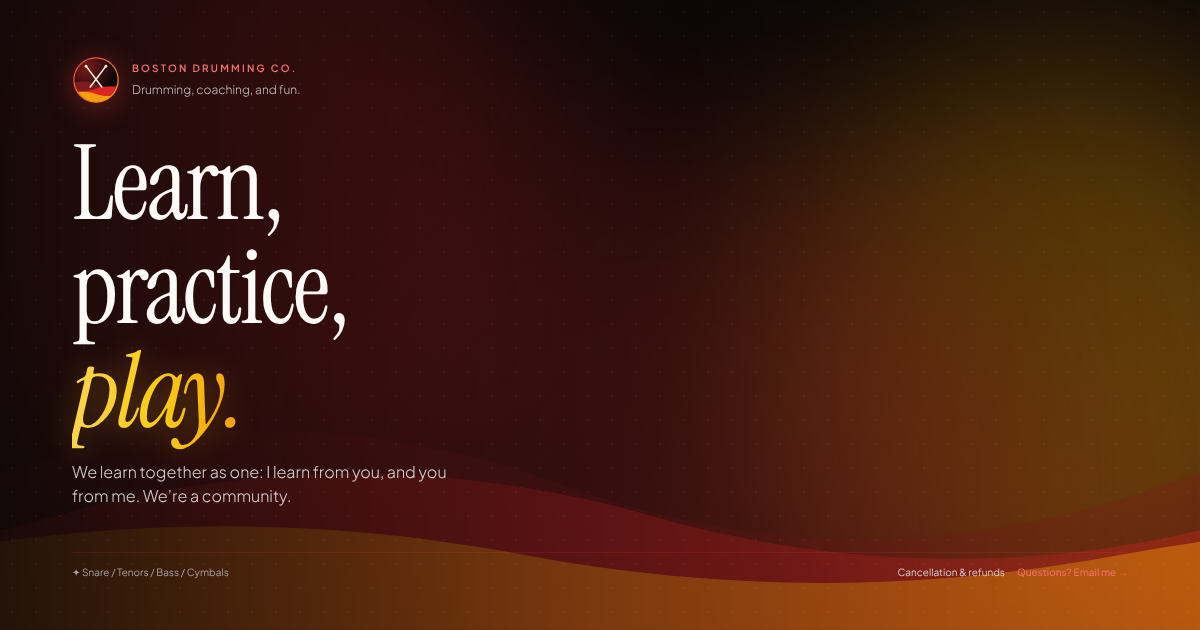
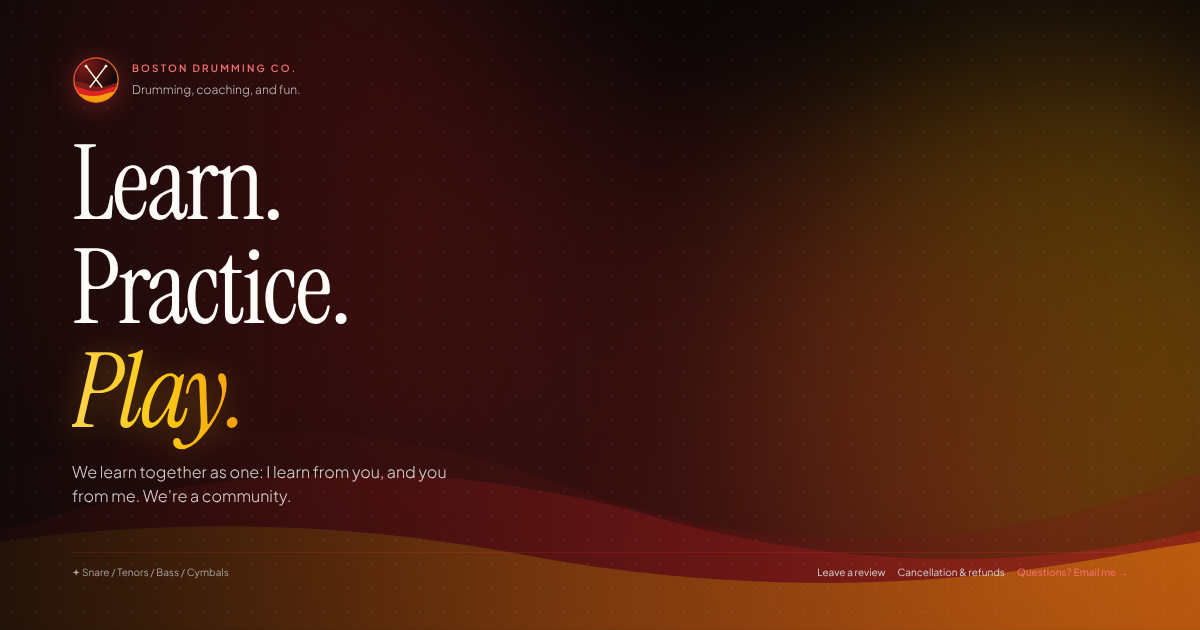
Google title and business details; under-18 guardian contact; headline with periods
- Title 'Drumline Lessons in Chicago | Boston Drumming Co.', clearer
  description, canonical URL, and schema.org MusicSchool details (service
  area, prices, offers; no street address)
- 'The student is under 18' checkbox reveals required parent/guardian
  name and phone; sent in the booking email
- Headline now 'Learn. Practice. Play.' to match the story; link preview
  title and image updated
- site-version bumped so open pages refresh

Claude-Session: https://claude.ai/code/session_01XXNqUAqut9kZbwsgtjxU9n

diff --git a/index.html b/index.html
@@ -3,22 +3,95 @@
 <head>
   <meta charset="UTF-8">
   <meta name="viewport" content="width=device-width, initial-scale=1.0, viewport-fit=cover">
-  <meta name="description" content="Boston Drumming — snare, tenor, bass and cymbal lessons in the Chicagoland area and online. Book a session in under a minute.">
+  <meta name="description" content="Private drumline lessons in Chicagoland and online: snare, tenors, bass and cymbals from a coach with 3 years of marching experience. From $15. Book online in under a minute.">
+  <link rel="canonical" href="https://hihiimheres.github.io/Chicago-drumline-prep/">
   <meta name="theme-color" content="#100B0B">
   <!-- Bump on every update: open pages compare this with the published copy and refresh -->
-  <meta name="site-version" content="2026-11-15.2">
+  <meta name="site-version" content="2026-11-15.3">
   <link rel="icon" type="image/svg+xml" href="brand/logo-mark.svg">
   <link rel="icon" type="image/png" href="brand/logo-mark.png">
   <link rel="apple-touch-icon" href="brand/apple-touch-icon.png">
   <meta property="og:type" content="website">
-  <meta property="og:title" content="Boston Drumming — Learn, practice, play.">
+  <meta property="og:title" content="Boston Drumming Co. — Learn. Practice. Play.">
   <meta property="og:description" content="Snare, tenor, bass and cymbal lessons in Chicagoland and online. Book a session in under a minute.">
   <meta property="og:url" content="https://hihiimheres.github.io/Chicago-drumline-prep/">
   <meta property="og:image" content="https://hihiimheres.github.io/Chicago-drumline-prep/og-image.png">
   <meta property="og:image:width" content="1200">
   <meta property="og:image:height" content="630">
   <meta name="twitter:card" content="summary_large_image">
-  <title>Boston Drumming</title>
+  <title>Drumline Lessons in Chicago | Boston Drumming Co.</title>
+  <!-- Business details for search engines (no street address: lessons are online or at the student's location) -->
+  <script type="application/ld+json">
+{
+    "@context": "https://schema.org",
+    "@type": "MusicSchool",
+    "name": "Boston Drumming Co.",
+    "slogan": "Learn. Practice. Play.",
+    "description": "Private drumline lessons (snare, tenors, bass, cymbals) in the Chicagoland area and online over Zoom or FaceTime.",
+    "url": "https://hihiimheres.github.io/Chicago-drumline-prep/",
+    "logo": "https://hihiimheres.github.io/Chicago-drumline-prep/brand/logo-mark.png",
+    "image": "https://hihiimheres.github.io/Chicago-drumline-prep/og-image.png",
+    "email": "Boston.drumming@icloud.com",
+    "priceRange": "$15–$50",
+    "areaServed": [
+      {
+        "@type": "City",
+        "name": "Chicago"
+      },
+      {
+        "@type": "AdministrativeArea",
+        "name": "Chicagoland"
+      }
+    ],
+    "makesOffer": [
+      {
+        "@type": "Offer",
+        "price": "15",
+        "priceCurrency": "USD",
+        "itemOffered": {
+          "@type": "Service",
+          "name": "Digital drumline lesson, 30 min"
+        }
+      },
+      {
+        "@type": "Offer",
+        "price": "25",
+        "priceCurrency": "USD",
+        "itemOffered": {
+          "@type": "Service",
+          "name": "Digital drumline lesson, 60 min"
+        }
+      },
+      {
+        "@type": "Offer",
+        "price": "35",
+        "priceCurrency": "USD",
+        "itemOffered": {
+          "@type": "Service",
+          "name": "Digital drumline lesson, 90 min"
+        }
+      },
+      {
+        "@type": "Offer",
+        "price": "35",
+        "priceCurrency": "USD",
+        "itemOffered": {
+          "@type": "Service",
+          "name": "In-person drumline lesson, 60 min"
+        }
+      },
+      {
+        "@type": "Offer",
+        "price": "50",
+        "priceCurrency": "USD",
+        "itemOffered": {
+          "@type": "Service",
+          "name": "In-person drumline lesson, 90 min (Audition Block)"
+        }
+      }
+    ]
+  }
+  </script>
 
   <link rel="preconnect" href="https://fonts.googleapis.com">
   <link rel="preconnect" href="https://fonts.gstatic.com" crossorigin>
@@ -101,7 +174,7 @@
   </style>
 
   <!-- Tailwind styles, built from this page. After changing classes in index.html, run: npm run build:css -->
-  <link rel="stylesheet" href="assets/site.css?v=2026-11-15.2">
+  <link rel="stylesheet" href="assets/site.css?v=2026-11-15.3">
 </head>
 <body class="min-h-screen w-full text-[#F5EFE6] font-sans-custom antialiased p-3 sm:p-5 lg:p-8 flex items-center justify-center bg-[#050404]">
 
@@ -205,9 +278,9 @@
 
       <div class="lg:my-auto py-2">
         <h1 class="font-serif-custom text-5xl sm:text-6xl lg:text-[clamp(52px,8.5vh,72px)] text-[#FDFBF7] leading-[0.96] tracking-tight mb-4">
-          Learn,<br>
-          practice,<br>
-          <span class="italic bg-gradient-to-r from-amber-300 via-yellow-400 to-amber-500 bg-clip-text text-transparent drop-shadow-[0_2px_15px_rgba(251,191,36,0.35)]">play.</span>
+          Learn.<br>
+          Practice.<br>
+          <span class="italic bg-gradient-to-r from-amber-300 via-yellow-400 to-amber-500 bg-clip-text text-transparent drop-shadow-[0_2px_15px_rgba(251,191,36,0.35)]">Play.</span>
         </h1>
 
         <p class="text-sm sm:text-base text-stone-200/90 font-light leading-relaxed max-w-sm mb-4">
@@ -338,6 +411,26 @@
                 <label class="shrink-0 flex items-center gap-1.5 text-[10px] text-stone-400 cursor-pointer">
                   <input type="checkbox" id="rememberMe" checked class="accent-red-500 w-3 h-3"> Remember me
                 </label>
+              </div>
+
+              <div class="space-y-2">
+                <label class="flex items-center gap-2 text-[11px] text-stone-300 cursor-pointer">
+                  <input type="checkbox" id="isMinor" class="accent-red-500 w-3.5 h-3.5"> The student is under 18
+                </label>
+                <fieldset id="guardianBlock" class="space-y-2" hidden>
+                  <legend class="text-[10px] uppercase tracking-wider text-stone-400 font-semibold block mb-1">Parent or guardian</legend>
+                  <div class="grid grid-cols-1 sm:grid-cols-2 gap-2">
+                    <div>
+                      <label for="guardianName" class="sr-only">Parent or guardian name</label>
+                      <input type="text" id="guardianName" autocomplete="off" autocapitalize="words" placeholder="Full name" class="w-full px-3 py-2 rounded-xl bg-black/50 border border-white/15 text-base sm:text-xs text-[#FDFBF7] focus:border-red-400 focus:outline-none" />
+                    </div>
+                    <div>
+                      <label for="guardianPhone" class="sr-only">Parent or guardian phone</label>
+                      <input type="tel" id="guardianPhone" autocomplete="off" inputmode="tel" placeholder="Phone" class="w-full px-3 py-2 rounded-xl bg-black/50 border border-white/15 text-base sm:text-xs text-[#FDFBF7] focus:border-red-400 focus:outline-none" />
+                    </div>
+                  </div>
+                  <p class="text-[10px] text-stone-400">I’ll confirm lesson details with a parent or guardian.</p>
+                </fieldset>
               </div>
 
               <fieldset id="addressBlock" class="space-y-2" hidden>
@@ -597,6 +690,9 @@
       zip: '',
       email: '',
       phone: '',
+      minor: false,
+      guardianName: '',
+      guardianPhone: '',
     });
     let state = initialState();
 
@@ -772,6 +868,9 @@
       state.email = $('clientEmail').value.trim();
       state.phone = $('clientPhone').value.trim();
       state.notes = $('clientNotes').value.trim();
+      state.minor = $('isMinor').checked;
+      state.guardianName = $('guardianName').value.trim();
+      state.guardianPhone = $('guardianPhone').value.trim();
     }
 
     function isWeekend(iso) {
@@ -1028,8 +1127,9 @@
       hint.classList.toggle('text-stone-400', !(touched && problem));
 
       const nameOk = state.first && state.last;
+      const guardianOk = !state.minor || (state.guardianName.length >= 2 && isValidPhone(state.guardianPhone));
       const travelOk = !needsAddress() || travel.status === 'ok';
-      const ready = state.format && state.rate && dateOk && nameOk && !problem && addressOk() && travelOk;
+      const ready = state.format && state.rate && dateOk && nameOk && !problem && guardianOk && addressOk() && travelOk;
       btn.disabled = !ready;
       const fee = needsAddress() && travel.status === 'ok' ? travel.fee : 0;
       btn.textContent = ready ? `Request ${formatDate(state.date)} • $${state.rate.price}${fee ? ` + $${fee} travel` : ''}`
@@ -1037,6 +1137,7 @@
         : !dateOk ? 'Pick a date from tomorrow on'
         : !nameOk ? 'Add your first and last name'
         : problem ? 'Add email or phone to continue'
+        : !guardianOk ? 'Add a parent or guardian name and phone'
         : !addressOk() ? 'Add the lesson address'
         : travel.status === 'checking' ? 'Checking distance…'
         : travel.status === 'far' ? 'Outside my travel area'
@@ -1066,6 +1167,9 @@
         email: state.email,
         phone: state.phone,
         notes: state.notes,
+        under_18: state.minor ? 'Yes' : '',
+        guardian_name: state.minor ? state.guardianName : '',
+        guardian_phone: state.minor ? state.guardianPhone : '',
       };
     }
 
@@ -1128,6 +1232,7 @@
           data.travel_fee && `Travel fee: ${data.travel_fee}`,
           data.email && `Email: ${data.email}`,
           data.phone && `Phone: ${data.phone}`,
+          data.under_18 && `Under 18: yes. Parent/guardian: ${data.guardian_name}, ${data.guardian_phone}`,
           data.notes && `Note: ${data.notes}`,
         ].filter(Boolean);
         const lines = ['Hi! I’d like to book a drumming session.', '', ...details];
@@ -1165,6 +1270,7 @@
       $('page3').reset();
       $('sessionDateInput').min = earliestBookingISO();
       $('rememberMe').checked = true;
+      $('guardianBlock').hidden = true;
       loadSavedContact();
       renderTimeChips();
       syncPayChoice();
@@ -1453,6 +1559,13 @@
     ['clientStreet', 'clientCity', 'clientZip'].forEach((id) =>
       $(id).addEventListener('input', () => { readContact(); scheduleTravelCheck(); }));
     $('clientPhone').addEventListener('blur', (e) => { e.target.value = formatUSPhone(e.target.value); updateSubmitState(); });
+    $('guardianPhone').addEventListener('blur', (e) => { e.target.value = formatUSPhone(e.target.value); updateSubmitState(); });
+    $('isMinor').addEventListener('change', () => {
+      $('guardianBlock').hidden = !$('isMinor').checked;
+      if ($('isMinor').checked) $('guardianName').focus();
+      updateSubmitState();
+    });
+    ['guardianName', 'guardianPhone'].forEach((id) => $(id).addEventListener('input', updateSubmitState));
 
     $('page3').addEventListener('submit', submitBooking);
     $('bookAnotherBtn').addEventListener('click', resetBooking);
